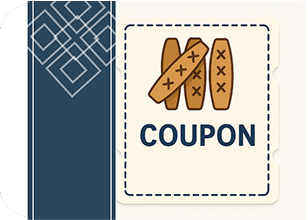
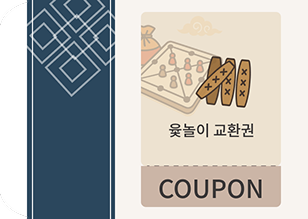
이미지 변경

diff --git a/src/pages/NipPartner.css b/src/pages/NipPartner.css
@@ -16,9 +16,6 @@
   height: 100vh;
   background: url(../img/nip_bg.png);
   overflow-x: hidden;
-  background-color: #2B475D;
-
-
 }
 
 .Partner {
